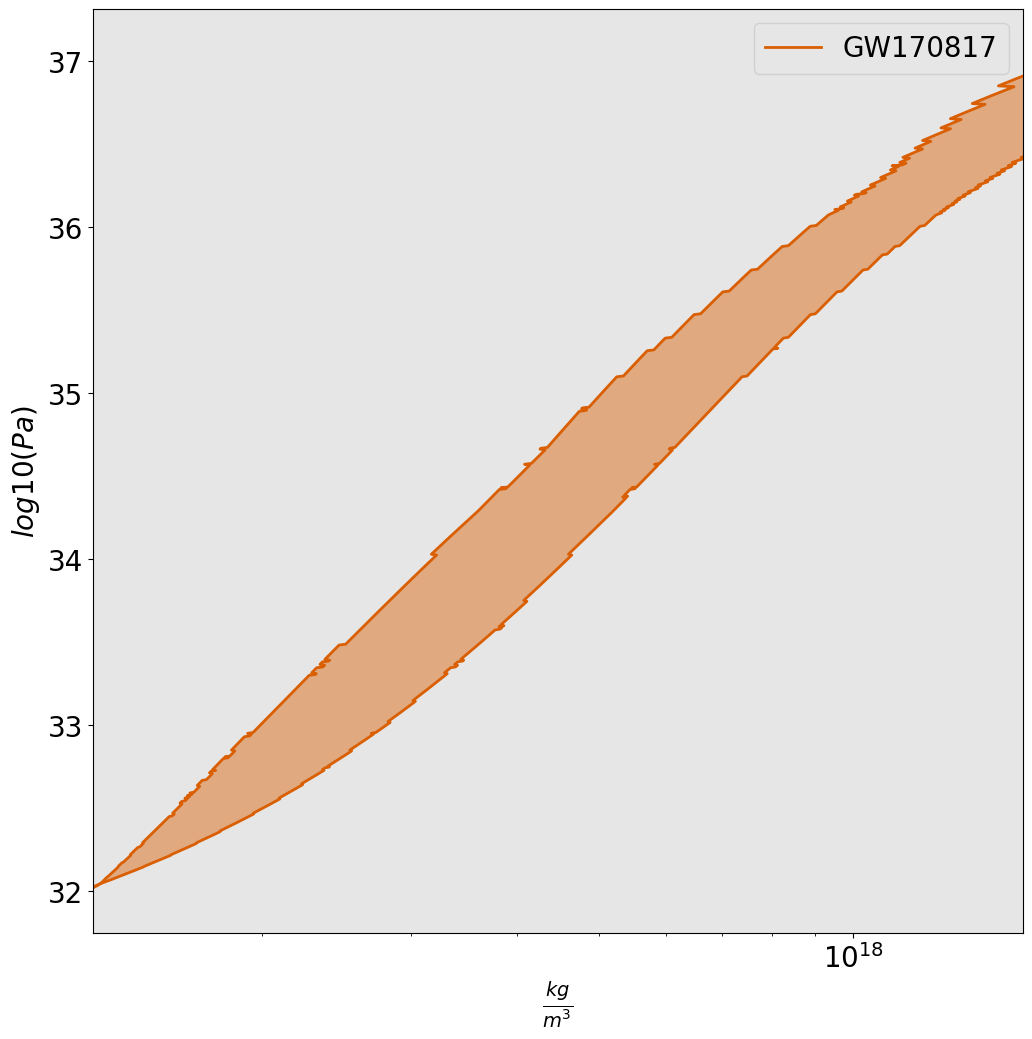
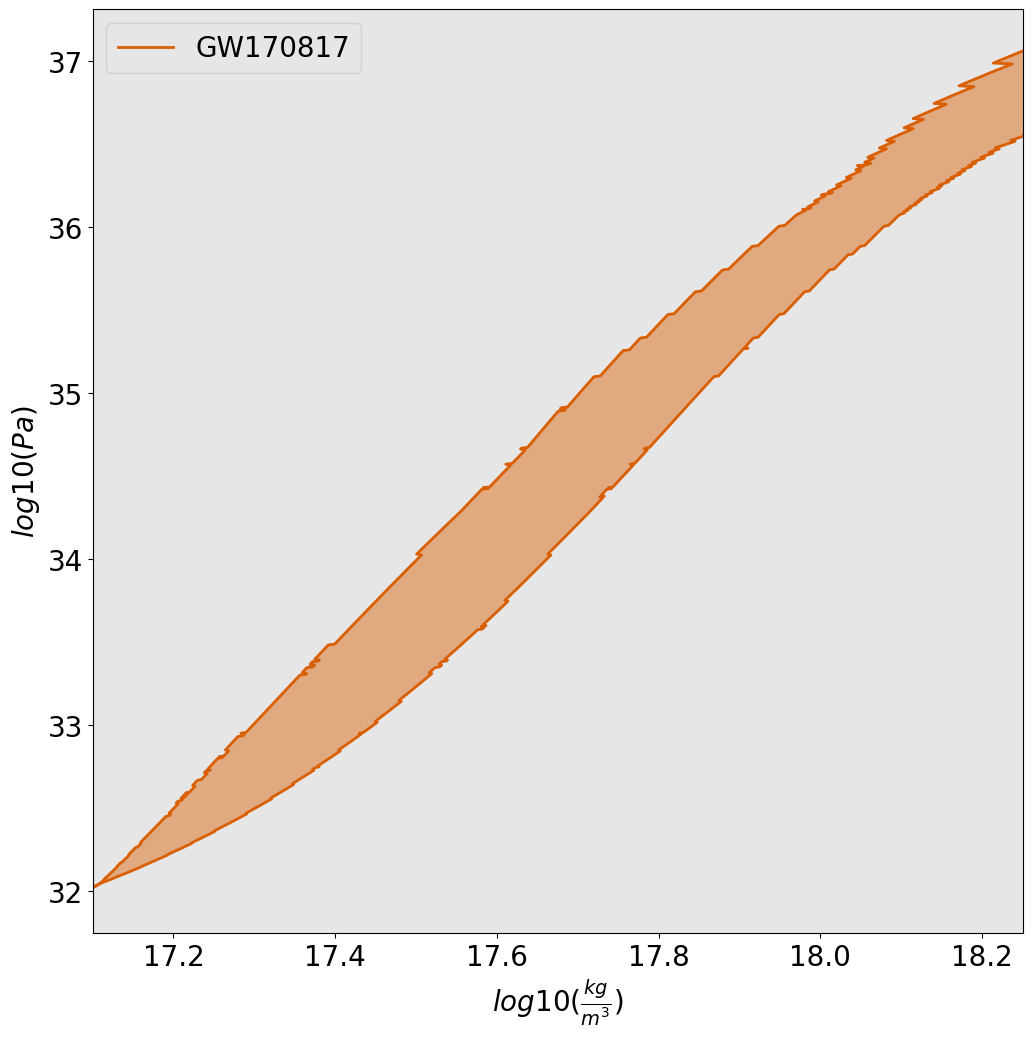
Plots of plots resembling Anarya's. 30th attempt.

diff --git a/joint_inference/development/confidence_interval.py b/joint_inference/development/confidence_interval.py
@@ -3,26 +3,22 @@ import matplotlib.pyplot as pl
 import json
 import corner
 
-def plot_intervals(outputfile):
+# Make x axis look like anarya's. Don't forget to update x axis
+
+def plot_intervals(outputfiles):
     # Plots differently sourced confidence intervals on top of each other.
 
-#    Files = ["run_data/8th_cutoff_plotting/spectral_p_vs_rho_cutoff_W100_S10000_GW170817_confidence.txt"]
-#    labels = ["GW170817"]
-#    colors = ["#d95f02"]
+# #1b9e77
 
-#    Files = ["run_data/8th_cutoff_plotting/spectral_p_vs_rho_cutoff_W100_S10000_J0740_confidence.txt"]
-#    labels = ["J0740"]
-#    colors = ["#7570b3"]
+    plotsFiles = [["run_data/8th_cutoff_plotting/spectral_p_vs_rho_cutoff_W100_S10000_GW170817_confidence.txt"],
+                  ["run_data/8th_cutoff_plotting/spectral_p_vs_rho_cutoff_W100_S10000_J0030_confidence.txt"],
+                  ["run_data/8th_cutoff_plotting/spectral_p_vs_rho_cutoff_W100_S10000_GW170817_J0030_hierarchical_confidence.txt"],
+                  ["run_data/8th_cutoff_plotting/spectral_p_vs_rho_cutoff_W100_S10000_GW170817_confidence.txt", "run_data/8th_cutoff_plotting/spectral_p_vs_rho_cutoff_W100_S10000_J0030_confidence.txt", "run_data/8th_cutoff_plotting/spectral_p_vs_rho_cutoff_W100_S10000_GW170817_J0030_hierarchical_confidence.txt"]]
 
-    Files = ["run_data/8th_cutoff_plotting/spectral_p_vs_rho_cutoff_W100_S10000_GW170817_J0740_hierarchical_confidence.txt"]
-    labels = ["GW+EM"]
-    colors = ["#000000"]
+    plotsLabels = [["GW170817"], ["J0030"], ["GW+EM"], ["GW170817", "J0030", "GW+EM"]]
 
-#    Files = ["run_data/8th_cutoff_plotting/spectral_p_vs_rho_cutoff_W100_S10000_GW170817_confidence.txt", "run_data/8th_cutoff_plotting/spectral_p_vs_rho_cutoff_W100_S10000_J0740_confidence.txt", "run_data/8th_cutoff_plotting/spectral_p_vs_rho_cutoff_W100_S10000_GW170817_J0740_hierarchical_confidence.txt"]
-#    labels = ["GW170817", "J0740", "GW+EM"]
-#    colors = ["#d95f02", "#7570b3", "#000000"]
+    plotsColors = [["#d95f02"], ["#7570b3"], ["#000000"], ["#d95f02", "#7570b3", "#000000"]]
 
-    pl.clf()
     pl.figure(figsize=(12,12))
     pl.rc('font', size=20)
     pl.rc('axes', facecolor='#E6E6E6', edgecolor='black')
@@ -30,22 +26,26 @@ def plot_intervals(outputfile):
     pl.rc('ytick', direction='out', color='black', labelcolor='black')
     pl.rc('lines', linewidth=2)
     
-    for File, label, color in zip(Files,labels,colors):
+    for Files, Labels, Colors, outputfile in zip(plotsFiles,plotsLabels,plotsColors, outputfiles): # increment over each plot file
+        for File, label, color in zip(Files, Labels, Colors): # increment over each plot
 
-        logp_grid, lower_bound, median, upper_bound = np.loadtxt(File).T
+            pl.clf()
+            logp_grid, lower_bound, median, upper_bound = np.loadtxt(File).T
+            lower_bound = np.log10(lower_bound)
+            upper_bound = np.log10(upper_bound)
 
-        ax1 = pl.gca()
-        ax1.set_xscale("log")
+            ax1 = pl.gca()
+    #        ax1.set_xscale("log")
 
-        pl.plot(lower_bound, logp_grid, label=label, color=color)
-        pl.plot(upper_bound, logp_grid, color=color)
-        ax1.fill_betweenx(logp_grid, lower_bound, x2=upper_bound, color=color, alpha=0.45)
+            pl.plot(lower_bound, logp_grid, label=label, color=color)
+            pl.plot(upper_bound, logp_grid, color=color)
+            ax1.fill_betweenx(logp_grid, lower_bound, x2=upper_bound, color=color, alpha=0.45)
 
-    pl.xlim([10**17.1, 10**18.2])
-    pl.xlabel(r'$\frac{kg}{m^3}$')
-    pl.ylabel(r'$log10(Pa)$')
-    pl.legend()
-    pl.savefig(outputfile, bbox_inches='tight')
+        pl.xlim([17.1, 18.25])
+        pl.xlabel(r'$log10(\frac{kg}{m^3})$')
+        pl.ylabel(r'$log10(Pa)$')
+        pl.legend()
+        pl.savefig("plots/"+outputfile, bbox_inches='tight')
 
 def corner_plots(outputfile):
     # Plots differently sourced corner plots on top of each other.
